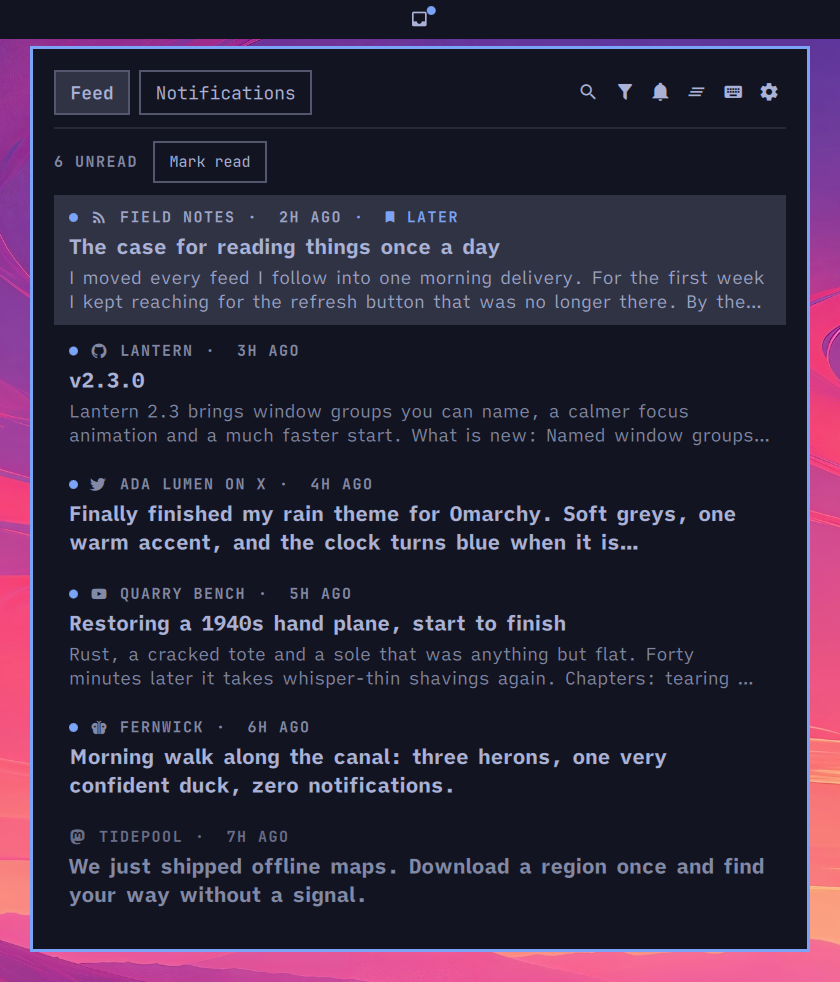
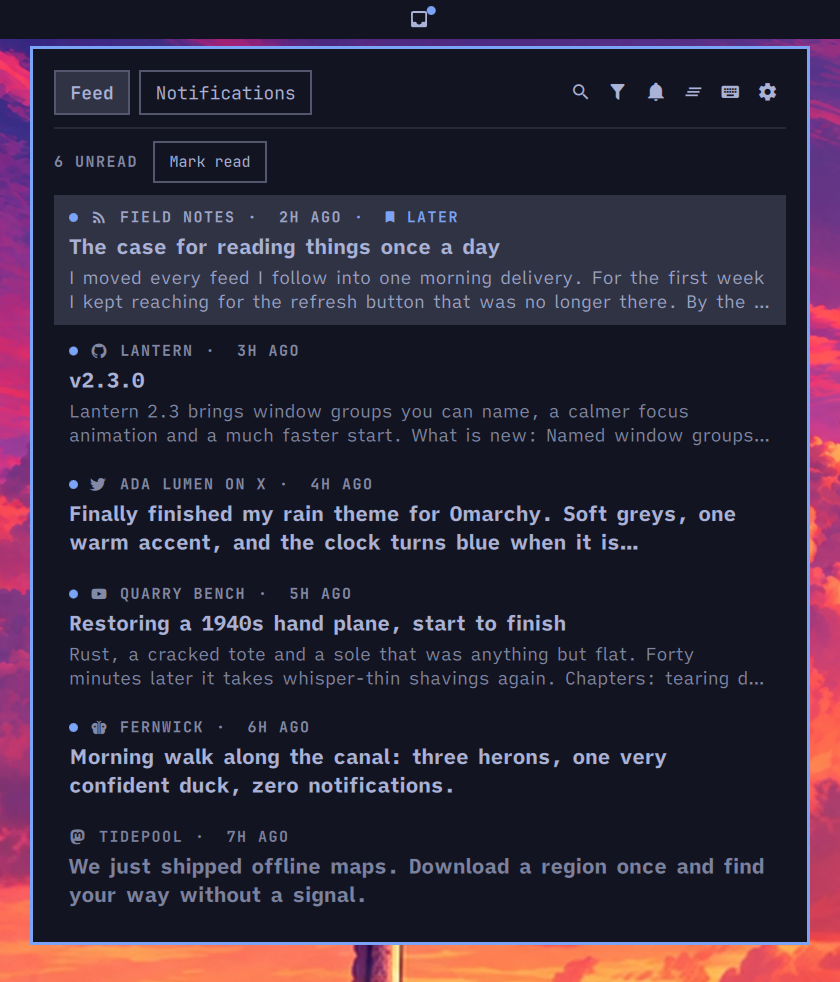
docs: screenshots and preview of the current panel
The notifications shot still showed a delivery notice that named its
sources, which Omabox no longer sends, and the shots predated the lists
that end on their last whole row and the rows steppers. The demo notice
now reads like the real one; feed, notifications and sources are
retaken at the same height, and the marketplace preview is rebuilt from
them.

diff --git a/tools/screenshots/demo.py b/tools/screenshots/demo.py
@@ -117,7 +117,7 @@ NOTES = [
     ("Calendar", "Design review in 10 minutes", "Room 3 and on video. Bring the sketches from Tuesday.", 12, ""),
     ("Signal", "Mira", "Are we still on for climbing on Saturday?", 35, ""),
     ("Steam", "Download complete", "Ostriv is ready to play.", 80, ""),
-    ("Omabox", "Omabox: 6 new posts", "Lantern, Field Notes, Quarry Bench, Ada Lumen on X, Fernwick, Hacker News", 40, ""),
+    ("Omabox", "Omabox: 6 new posts", "from 6 sources", 40, ""),
     ("Battery", "Headphones at 15%", "About two hours of listening left.", 190, ""),
     ("Thunderbird", "Invoice 2026-10", "Your hosting invoice is ready. Nothing to pay: it is covered by credit.", 300, ""),
     ("Updates", "System up to date", "42 packages updated. No restart needed.", 520, ""),
